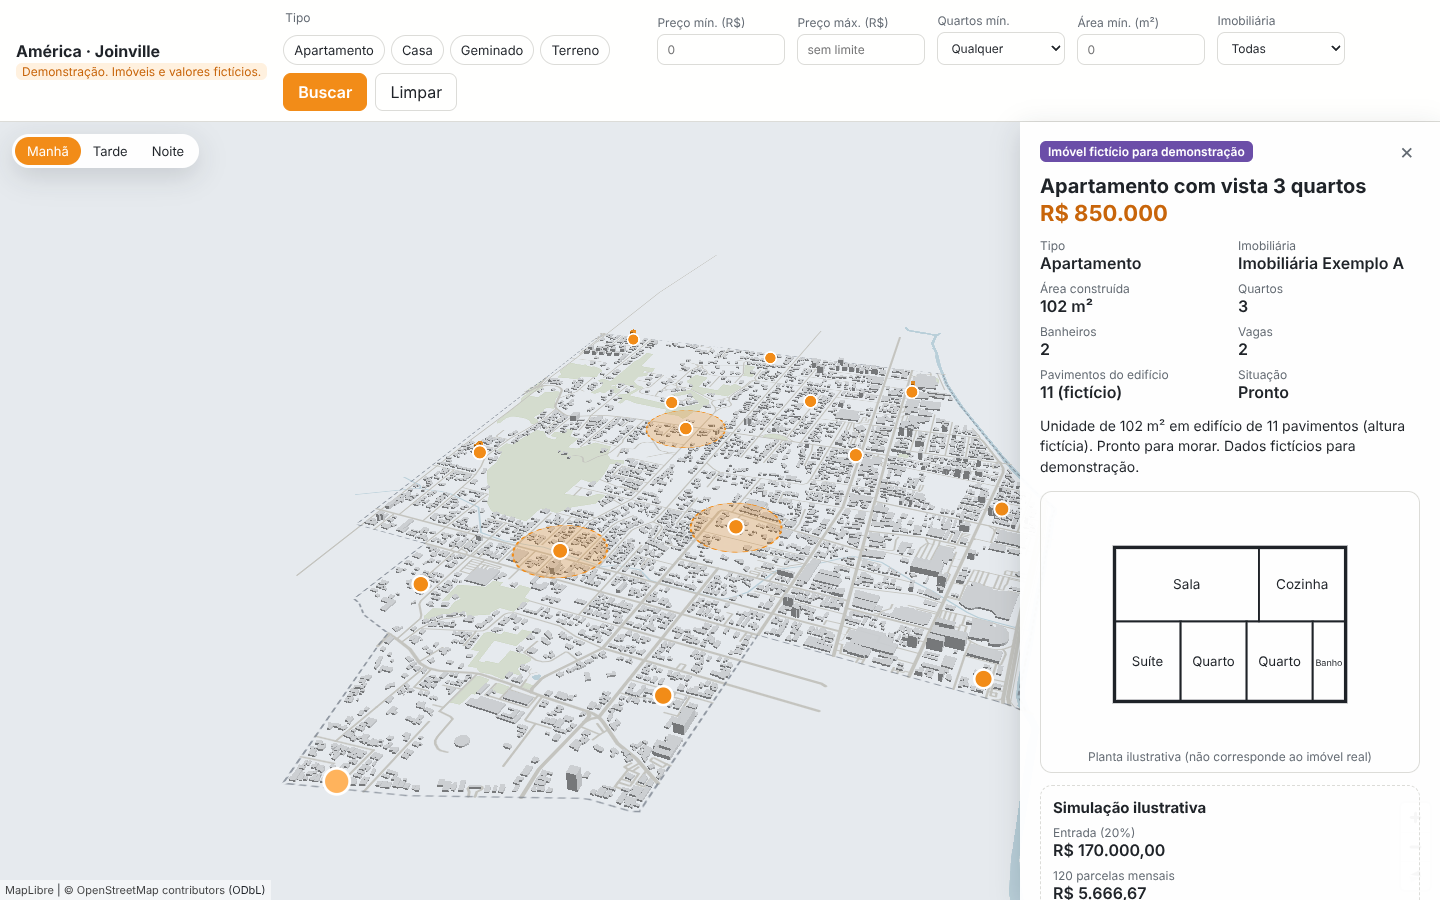
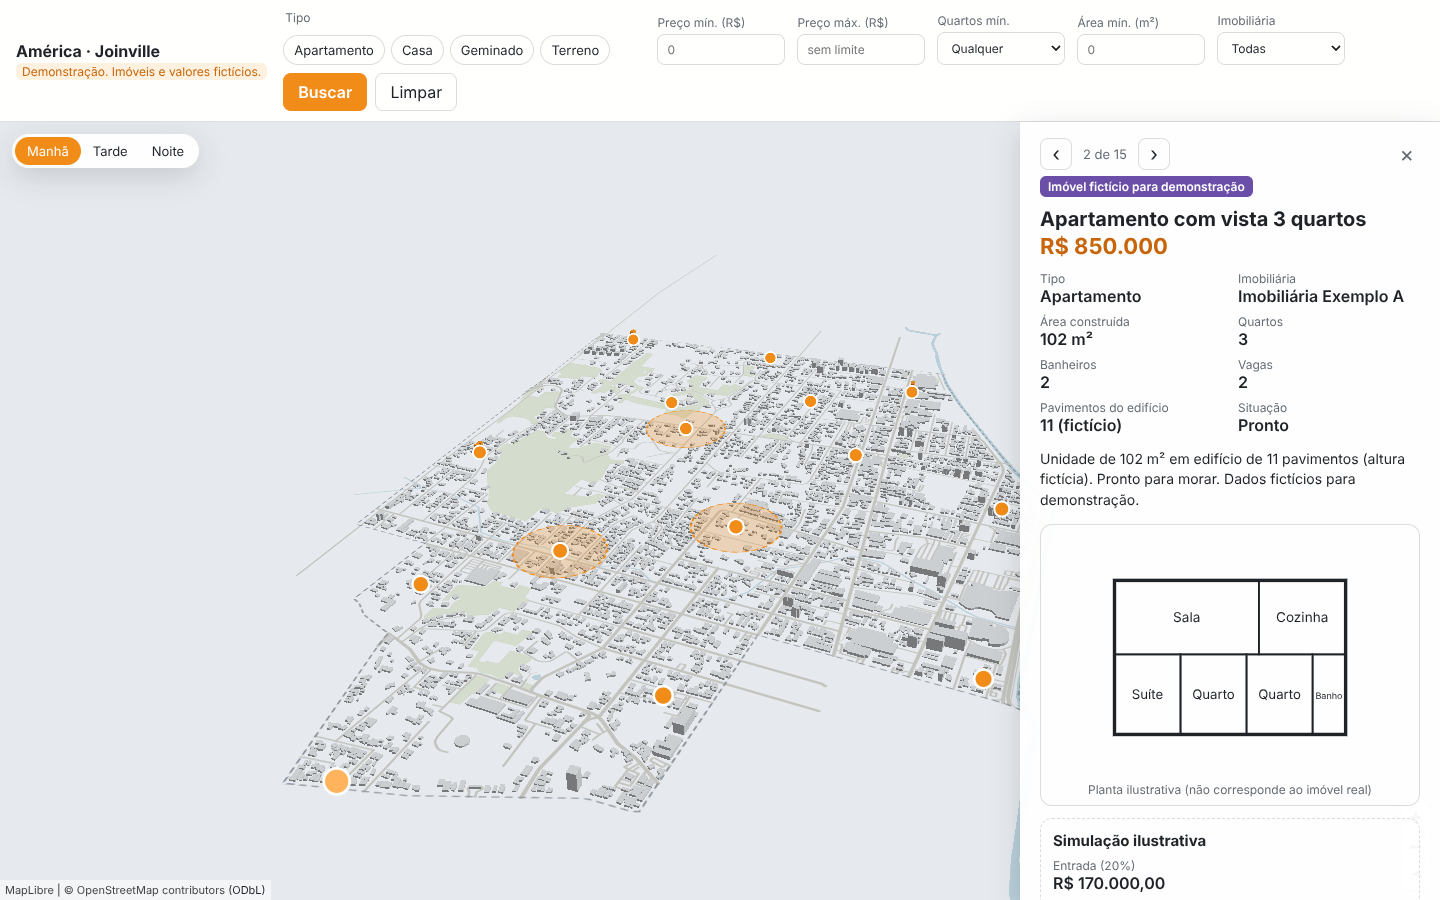
Browse listings with previous/next in the drawer
The drawer shows the position in the current list (search results or all
listings) with previous/next buttons, disabled at the ends; arrow keys work
while focus is in the drawer.

Claude-Session: https://claude.ai/code/session_01MswBngYgUdv4UjeCTjJVEZ

Changed region(s): [[0.7188, 0.1556, 0.9688, 0.56], [0.7188, 0.6844, 0.9688, 1.0], [0.75, 0.5911, 0.9375, 0.6533]]

diff --git a/src/ui/drawer.ts b/src/ui/drawer.ts
@@ -4,15 +4,31 @@ import { escapeHtml, formatArea, formatBRL, formatBRLCents } from '../utils/form
 import { floorPlanSvg } from '../utils/floorplan';
 import { simulatePayment } from '../utils/payment';
 
+/** Position of the open listing inside the current list, for previous/next navigation. */
+export interface DrawerNav {
+  index: number;
+  total: number;
+  prevId: string | null;
+  nextId: string | null;
+}
+
 export class Drawer {
   private openId: string | null = null;
+  private nav: DrawerNav | null = null;
   constructor(
     private el: HTMLElement,
     private agencies: Agency[],
     private onClose: () => void,
+    private onNavigate: (id: string) => void = () => {},
   ) {
     document.addEventListener('keydown', (e) => {
-      if (e.key === 'Escape' && this.openId) this.close();
+      if (!this.openId) return;
+      if (e.key === 'Escape') return this.close();
+      // ← / → browse the list while focus is in the drawer (not in a form field)
+      const inDrawer = this.el.contains(document.activeElement);
+      if (!inDrawer || (e.target as HTMLElement).closest('input, select, textarea')) return;
+      if (e.key === 'ArrowLeft' && this.nav?.prevId) this.onNavigate(this.nav.prevId);
+      if (e.key === 'ArrowRight' && this.nav?.nextId) this.onNavigate(this.nav.nextId);
     });
   }
 
@@ -20,8 +36,9 @@ export class Drawer {
     return this.openId;
   }
 
-  open(l: Listing): void {
+  open(l: Listing, nav: DrawerNav | null = null): void {
     this.openId = l.id;
+    this.nav = nav;
     const agency = this.agencies.find((a) => a.id === l.agency)?.name ?? l.agency;
     const sim = simulatePayment(l.price, l.status);
     const rows: [string, string][] = [
@@ -43,9 +60,18 @@ export class Drawer {
     this.el.innerHTML = `
       <div class="drawer-handle" aria-hidden="true"></div>
       <div class="drawer-head">
-        <span class="badge-fictional">Imóvel fictício para demonstração</span>
+        ${
+          nav
+            ? `<div class="drawer-nav" role="group" aria-label="Navegar entre imóveis">
+                <button type="button" class="nav-btn" data-action="prev" aria-label="Imóvel anterior" ${nav.prevId ? '' : 'disabled'}>‹</button>
+                <span class="nav-pos">${nav.index + 1} de ${nav.total}</span>
+                <button type="button" class="nav-btn" data-action="next" aria-label="Próximo imóvel" ${nav.nextId ? '' : 'disabled'}>›</button>
+              </div>`
+            : '<span></span>'
+        }
         <button type="button" class="icon-btn" data-action="close" aria-label="Fechar detalhes">×</button>
       </div>
+      <span class="badge-fictional">Imóvel fictício para demonstração</span>
       <h2 id="drawer-title">${escapeHtml(l.title)}</h2>
       <p class="price">${formatBRL(l.price)}</p>
       ${
@@ -75,6 +101,8 @@ export class Drawer {
       <p class="drawer-attrib">Mapa: <a href="https://www.openstreetmap.org/copyright" target="_blank" rel="noopener">© OpenStreetMap contributors</a> (ODbL) · <a href="https://maplibre.org/" target="_blank" rel="noopener">MapLibre</a></p>
     `;
     this.el.querySelector('[data-action="close"]')!.addEventListener('click', () => this.close());
+    this.el.querySelector('[data-action="prev"]')?.addEventListener('click', () => nav?.prevId && this.onNavigate(nav.prevId));
+    this.el.querySelector('[data-action="next"]')?.addEventListener('click', () => nav?.nextId && this.onNavigate(nav.nextId));
     this.el.classList.add('open');
     this.el.setAttribute('aria-hidden', 'false');
     this.el.scrollTop = 0;
@@ -84,6 +112,7 @@ export class Drawer {
   close(): void {
     if (!this.openId) return;
     this.openId = null;
+    this.nav = null;
     this.el.classList.remove('open');
     this.el.setAttribute('aria-hidden', 'true');
     this.onClose();

diff --git a/src/main.ts b/src/main.ts
@@ -5,6 +5,7 @@ import { setWorkerUrl } from 'maplibre-gl';
 import workerUrl from 'maplibre-gl/dist/maplibre-gl-worker.mjs?url';
 import './styles.css';
 import { loadData } from './data/load';
+import type { Listing } from './data/types';
 import { Scene } from './map/scene';
 import { themeFor, type TimeOfDay } from './map/lighting';
 import { FilterStore, filterListings, isEmptyCriteria } from './state/filters';
@@ -30,7 +31,14 @@ async function main() {
   const resultsEl = $('#results');
 
   const tooltip = new HoverTooltip($('#hover-tooltip'), $('#map'));
-  const drawer = new Drawer($('#drawer'), data.listings.agencies, () => scene.select(null));
+  // The list the drawer browses with previous/next: applied search results, in display order.
+  let currentList: Listing[] = listings;
+  const drawer = new Drawer(
+    $('#drawer'),
+    data.listings.agencies,
+    () => scene.select(null),
+    (id) => openListing(id, true),
+  );
   const scene = new Scene($('#map'), data, themeFor(tod, lat, lon).theme, {
     onListingClick: (id) => openListing(id, false),
     onEmptyClick: () => drawer.close(),
@@ -47,12 +55,24 @@ async function main() {
     if (!l) return;
     if (fly) scene.flyToListing(l);
     scene.select(id);
-    drawer.open(l);
+    const index = currentList.findIndex((x) => x.id === id);
+    drawer.open(
+      l,
+      index < 0
+        ? null
+        : {
+            index,
+            total: currentList.length,
+            prevId: currentList[index - 1]?.id ?? null,
+            nextId: currentList[index + 1]?.id ?? null,
+          },
+    );
   }
 
   mountFilters($<HTMLFormElement>('#filters'), store, data.listings.agencies);
   store.onApply((criteria) => {
     const results = filterListings(listings, criteria);
+    currentList = results;
     scene.setMatched(new Set(results.map((l) => l.id)));
     if (drawer.currentId && !results.some((l) => l.id === drawer.currentId)) drawer.close();
     if (isEmptyCriteria(criteria)) {

diff --git a/src/styles.css b/src/styles.css
@@ -369,7 +369,34 @@ body[data-tod='night'] .tt-note {
   align-items: center;
   justify-content: space-between;
 }
+.drawer-nav {
+  display: flex;
+  align-items: center;
+  gap: 4px;
+}
+.nav-btn {
+  width: 32px;
+  height: 32px;
+  border: 1px solid var(--line);
+  border-radius: 8px;
+  background: transparent;
+  font-size: 20px;
+  line-height: 1;
+  cursor: pointer;
+}
+.nav-btn:disabled {
+  opacity: 0.35;
+  cursor: default;
+}
+.nav-pos {
+  min-width: 58px;
+  text-align: center;
+  font-size: 13px;
+  color: var(--muted);
+}
 .badge-fictional {
+  display: inline-block;
+  margin-top: 6px;
   font-size: 12px;
   font-weight: 600;
   color: #fff;
